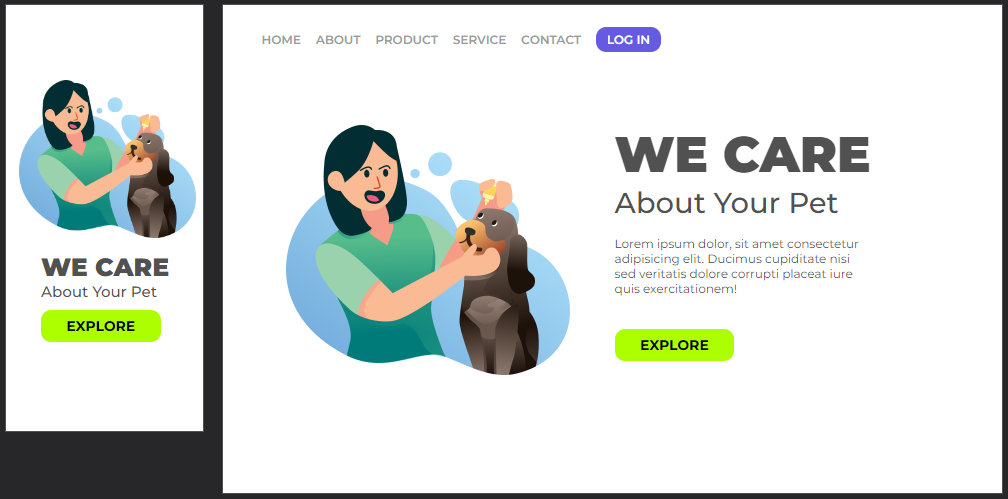
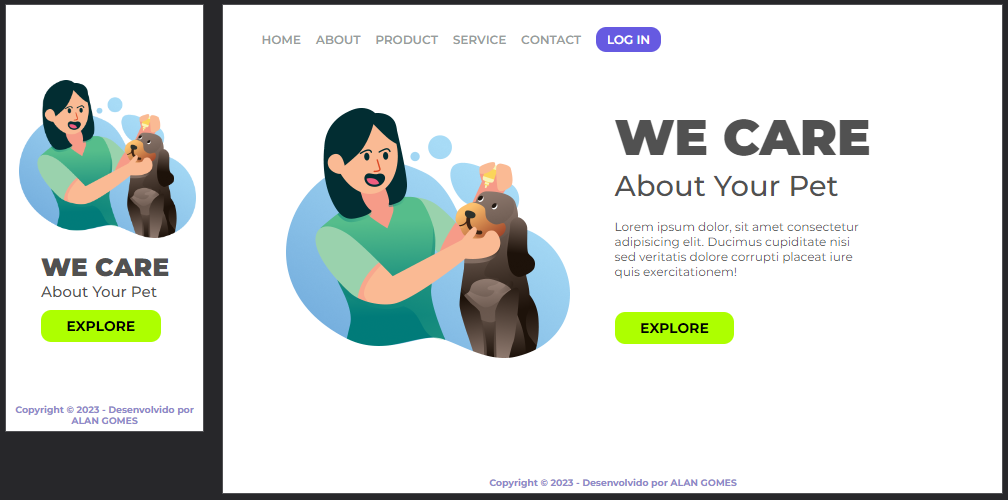
adicionado footer e atualização de image screen

diff --git a/style.css b/style.css
@@ -5,8 +5,18 @@
     font-family: "Montserrat", sans-serif;
 }
 
+body {
+    display: flex;
+    flex-direction: column;
+    min-height: 100vh;
+}
+
+main {
+    flex: 1;
+}
+
 header {
-    padding: 44px 0 144px 77px;
+    padding: 44px 0 110px 77px;
     font-size: 24px;
     font-weight: 600;
     color: #989D9C;
@@ -36,6 +46,8 @@ img {
     margin: 0 86px -50px 125px;
     display: inline-block;
 }
+
+
 
 section {
     display: inline-block;
@@ -71,6 +83,12 @@ p {
     cursor: pointer;
 }
 
+footer{    
+    text-align: center;
+    margin: 10px;
+    color: #8e88c9;
+}
+
 /* Responsivo para Cell phone */
 @media screen and (max-width:430px) {
     header{
@@ -98,5 +116,5 @@ p {
 
     p{
         display: none;
-    }
+    }    
 }

diff --git a/Index.html b/Index.html
@@ -31,6 +31,9 @@
             <button class="explore">EXPLORE</button>
         </section>
     </main>
+    <footer>
+        <h3>Copyright © 2023 - Desenvolvido por ALAN GOMES</h3>
+    </footer>
 
 </body>
 
